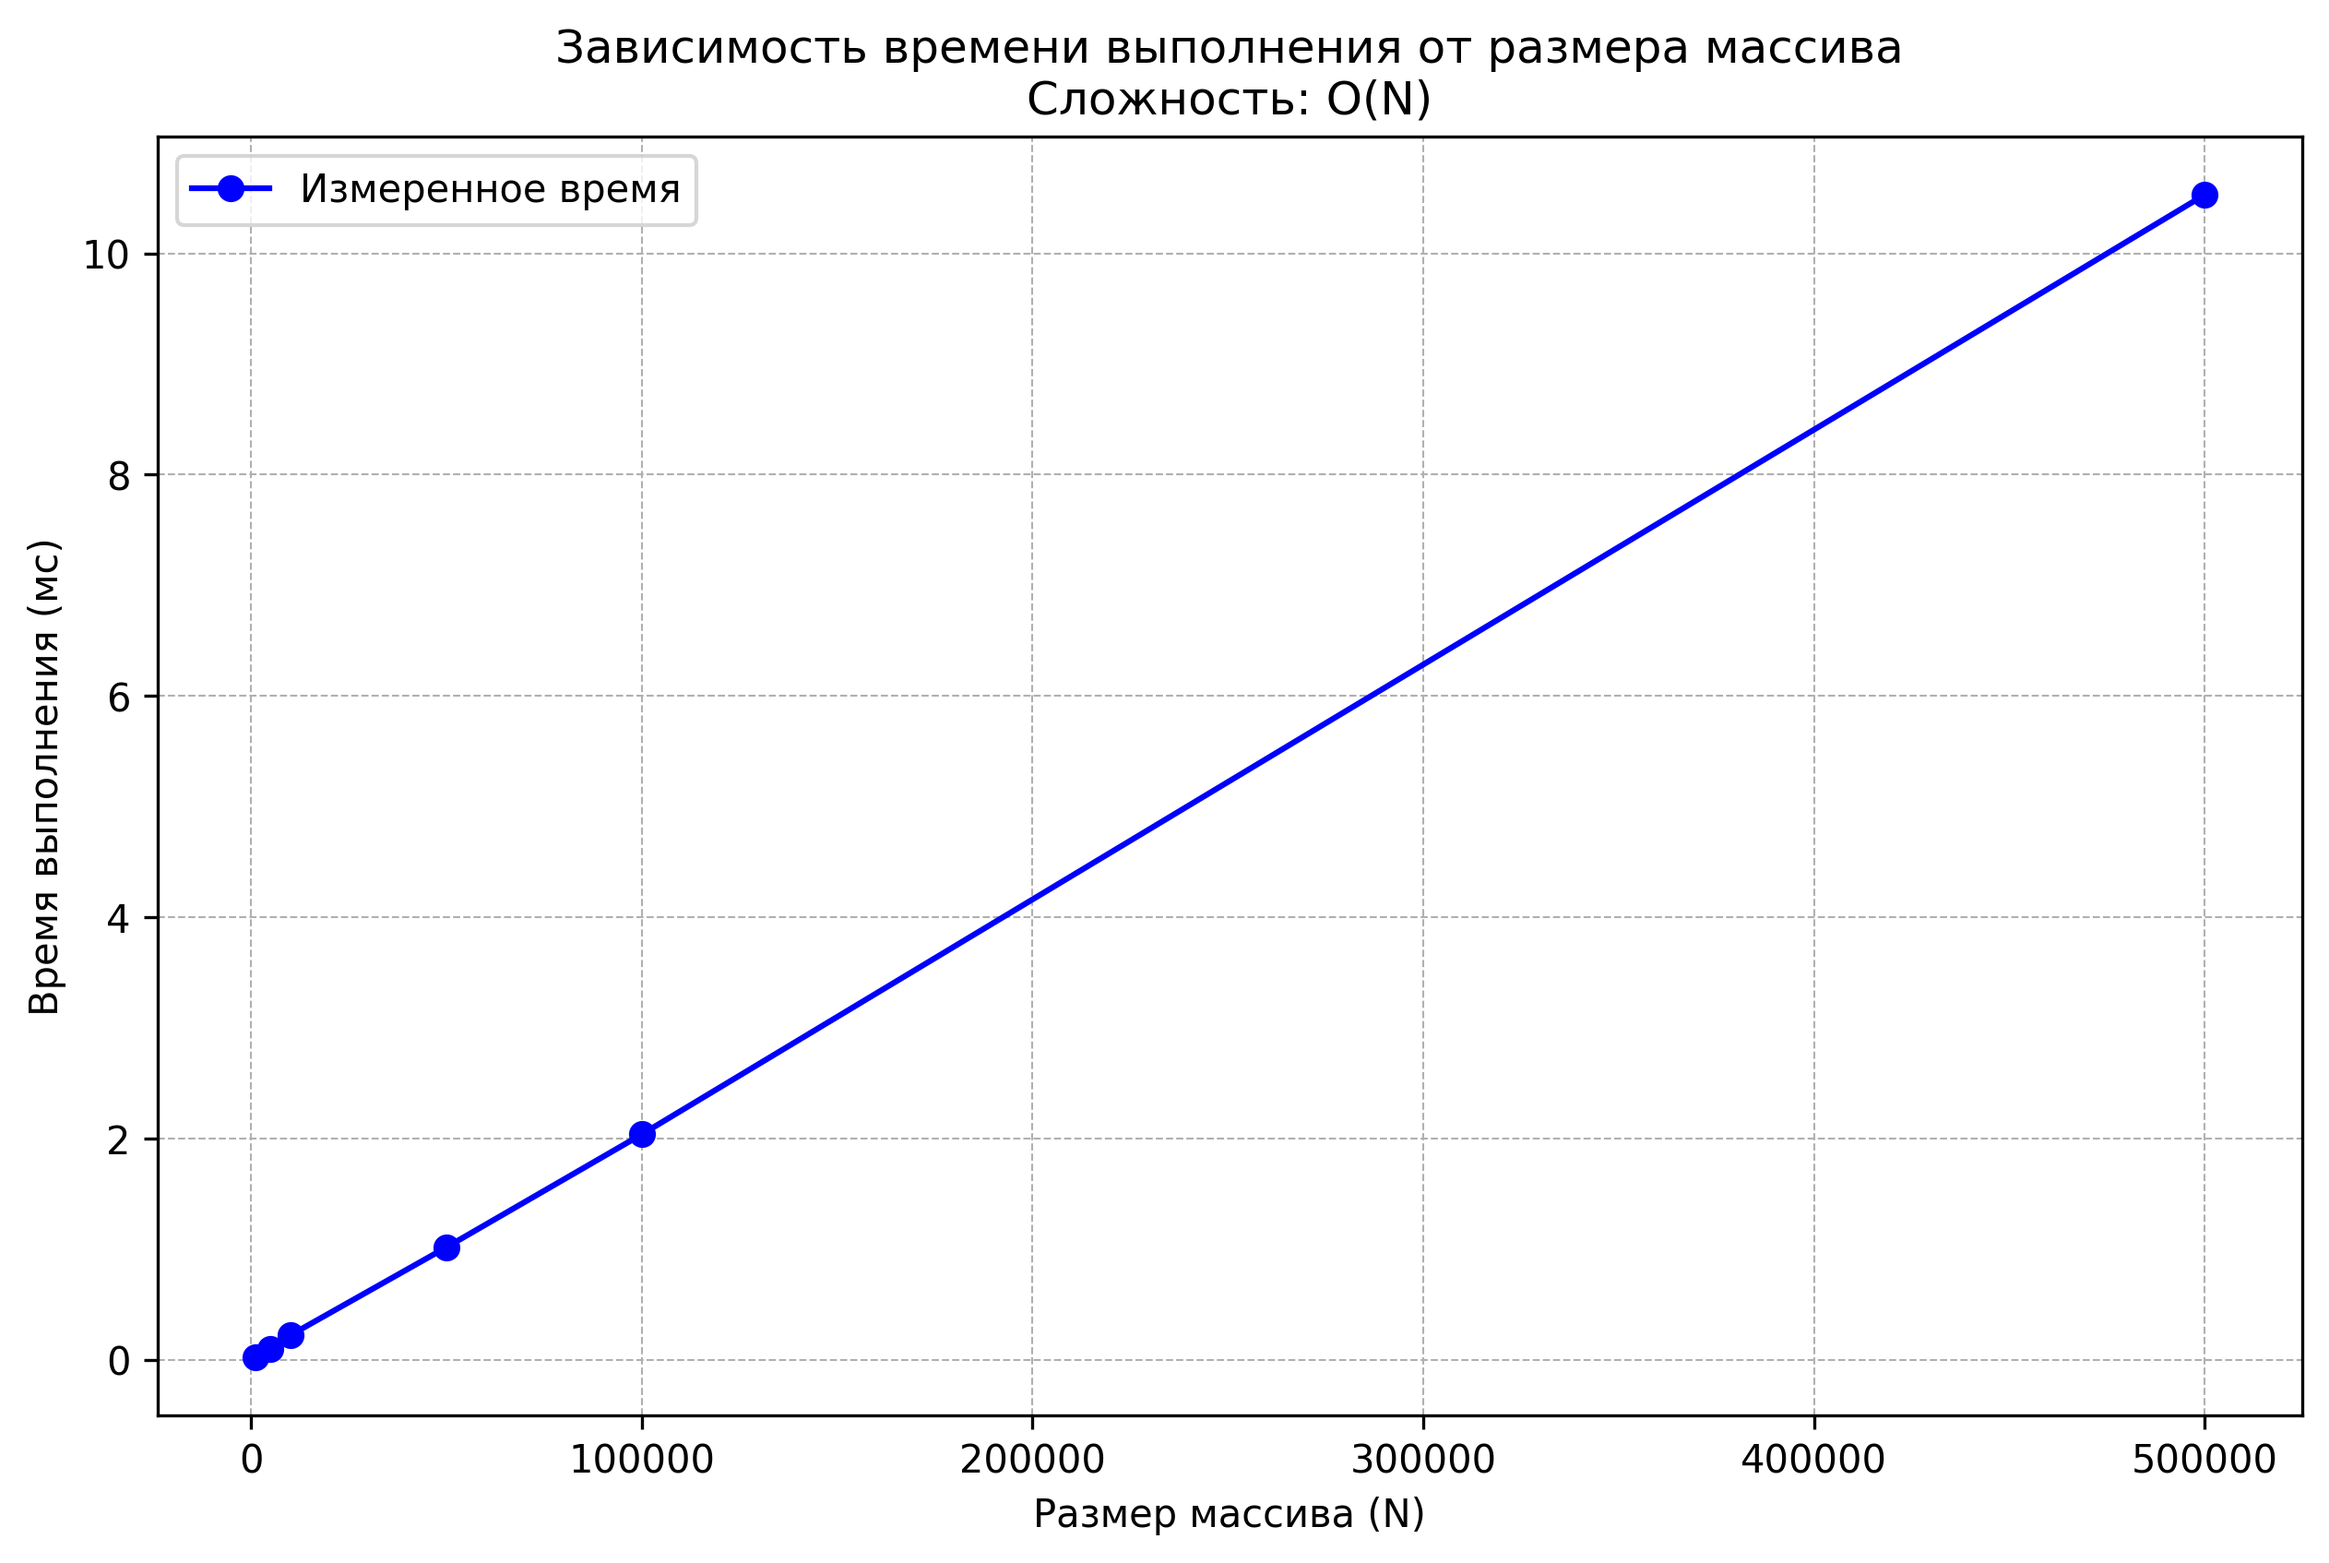
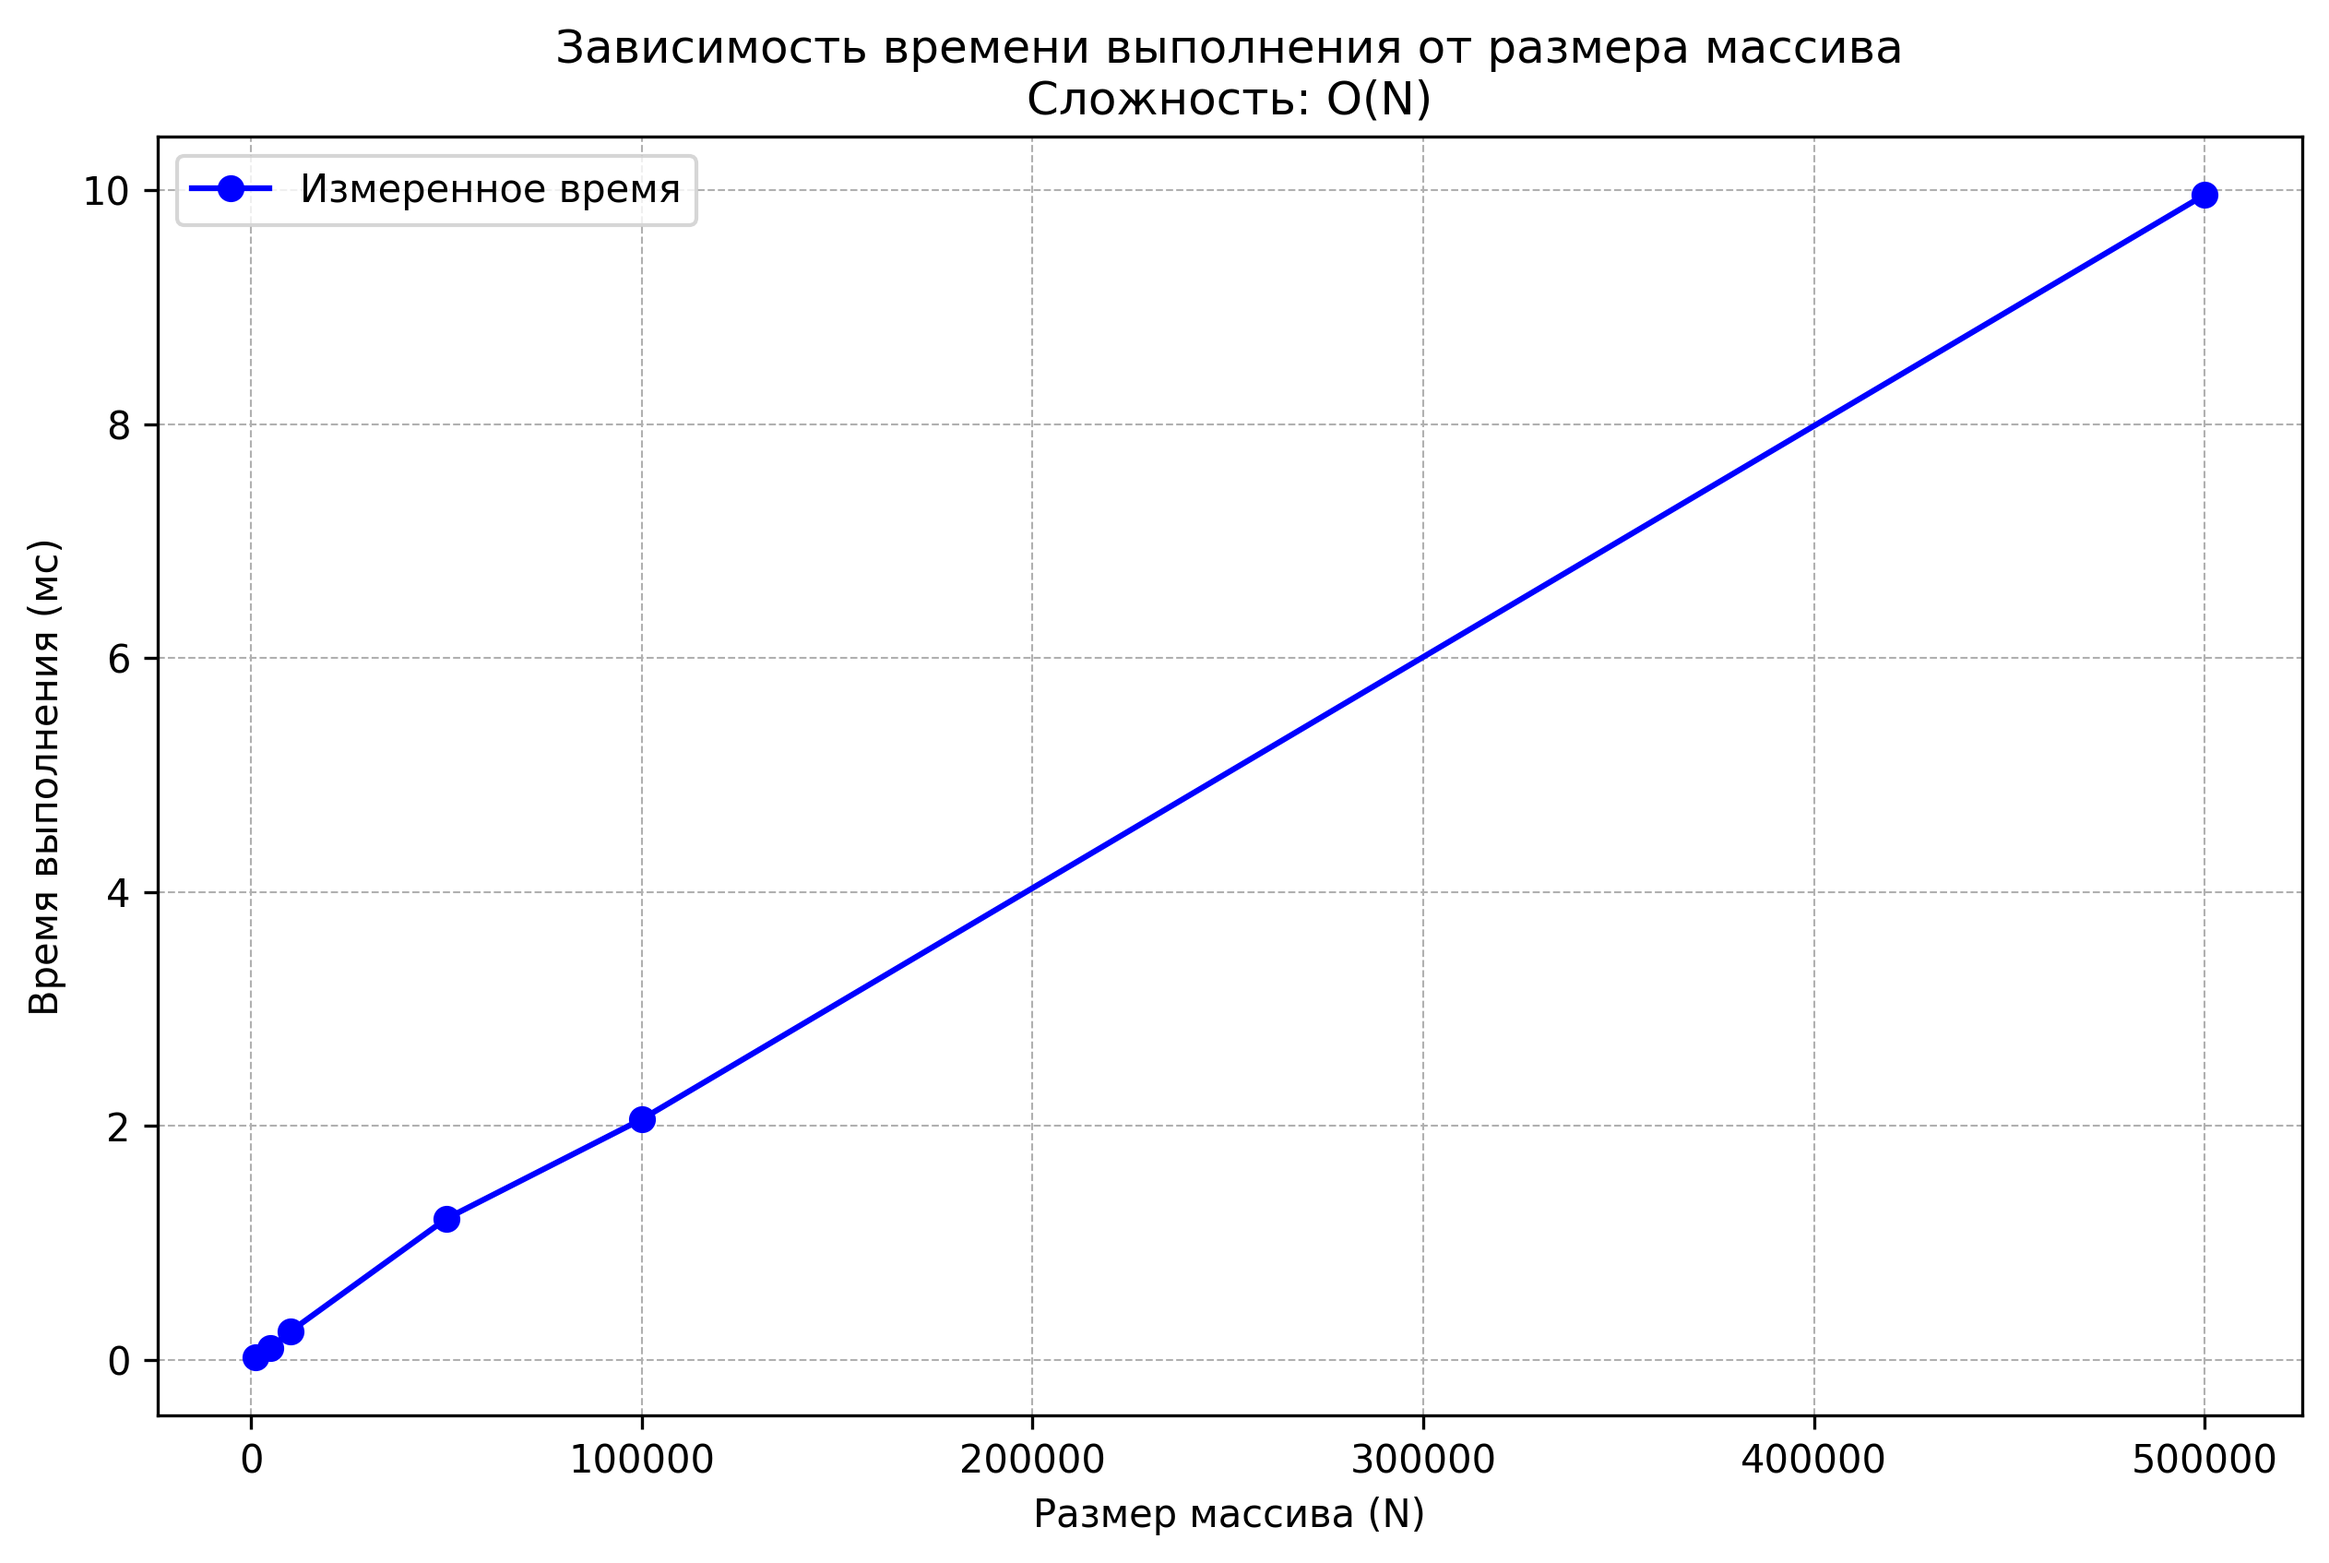
Update lab-00

diff --git a/LR_0/src/sum_analysis.py b/LR_0/src/sum_analysis.py
@@ -83,7 +83,7 @@ plt.ylabel('Время выполнения (мс)')
 plt.title('Зависимость времени выполнения от размера массива\nСложность: O(N)')
 plt.grid(True, which='both', linestyle='--', linewidth=0.5)
 plt.legend()
-plt.savefig('../ОТЧЁТ/time_complexity_plot.png', dpi=300, bbox_inches='tight')
+plt.savefig('./ОТЧЁТ/time_complexity_plot.png', dpi=300, bbox_inches='tight')
 plt.show()
 
 # Дополнительный анализ: сравнение с теоретической оценкой
